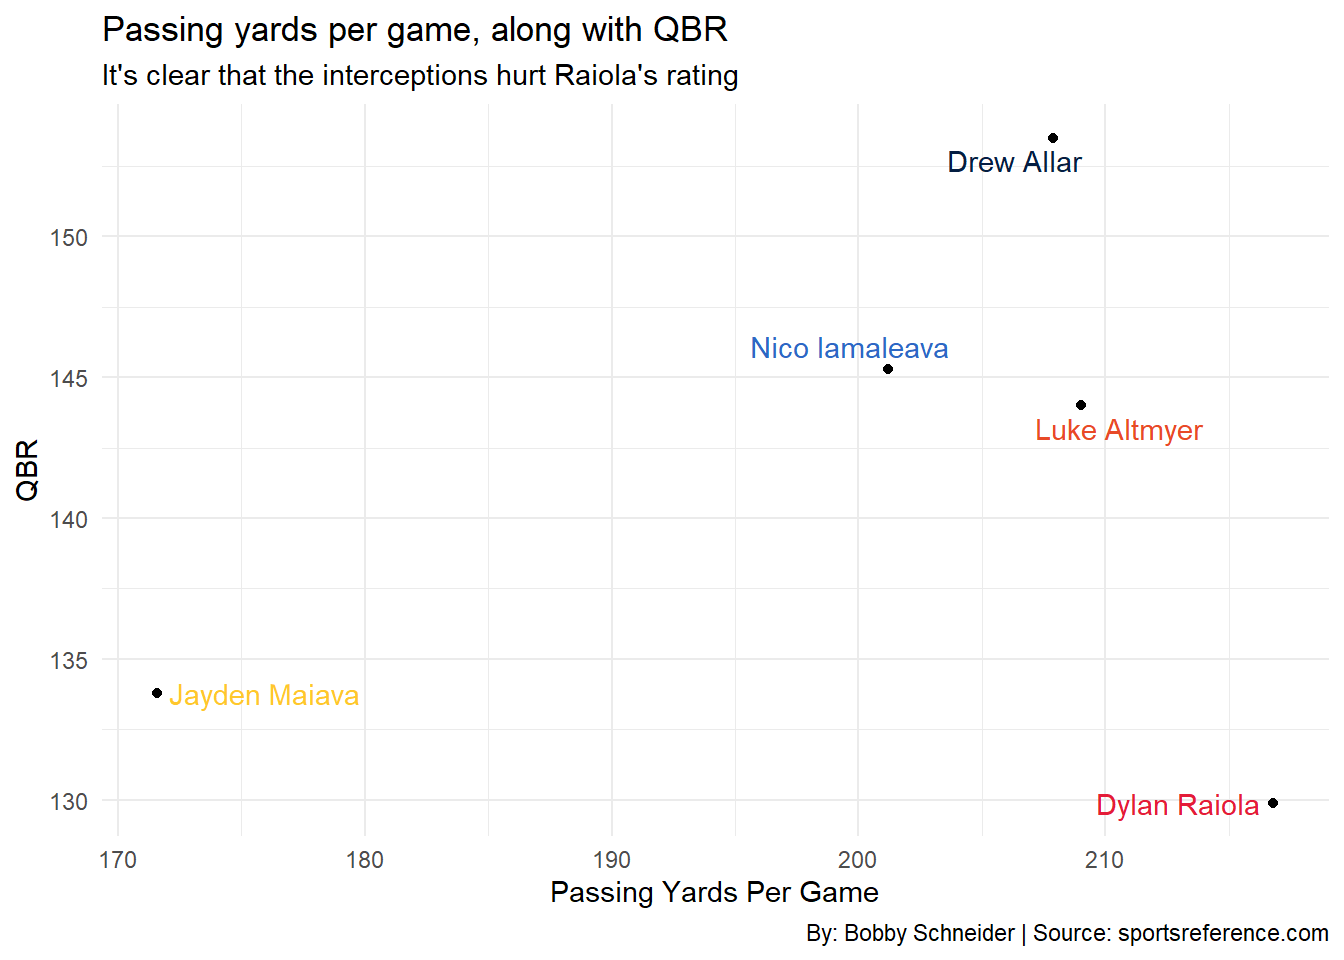
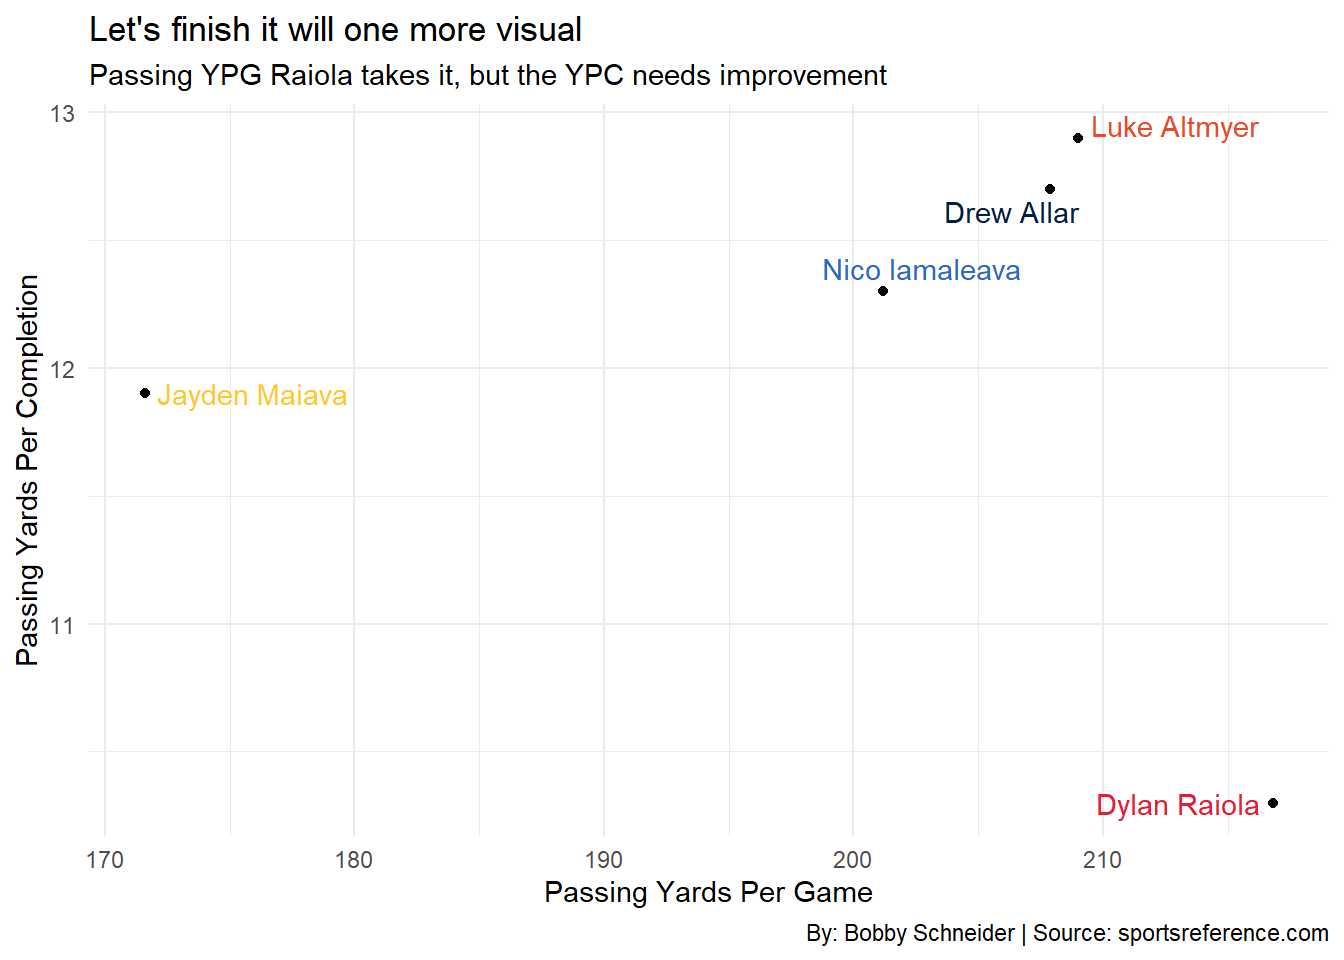
update20

diff --git a/posts/dylan-raiola-compared-to-big-ten-qbs/index.html b/posts/dylan-raiola-compared-to-big-ten-qbs/index.html
@@ -191,9 +191,9 @@ pre > code.sourceCode > span > a:first-child::before { text-decoration: underlin
 
 
 
-<p>Dylan Raiola showed sparks of eliteness as a true freshman in Lincoln, but he also had his fair share of rookie moments. As he enters his sophomore season, the expectations for Nebraska football with him under center continue to grow.</p>
-<p>Could Raiola make the jump to become elite as a Big Ten QB? You’ll find he did pretty solid, especially compared to quarterbacks that had been starters before Raiola even stepped foot on a college campus.</p>
-<p>Below, we will compare Raiola to four quarterbacks who were starters the past season in the Big Ten. The only expectation — former Tennessee, now UCLA quarterback Nico Iamaleava. The others include Penn State’s Drew Allar, Illinois’ Luke Altmyer and USC’s Jayden Maiava.</p>
+<p>Dylan Raiola showed sparks of eliteness as a true freshman in Lincoln, but he also had his fair share of rookie moments. As he enters his sophomore season, the expectations for Nebraska football with him under center continue to grow. Could Raiola make the jump to become elite as a Big Ten quarterback? You’ll find he did pretty solid, especially compared to quarterbacks who had been starters before Raiola even stepped foot on a college campus.</p>
+<p>We will compare Raiola to four quarterbacks who were starters the past season in the Big Ten. The only exception — former Tennessee, now UCLA quarterback Nico Iamaleava. The others include Penn State’s Drew Allar, Illinois’ Luke Altmyer and USC’s Jayden Maiava.</p>
+<p>Starting with raw production in simple terms for a quarterback — passing yards:</p>
 <div class="cell">
 <details class="code-fold">
 <summary>Code</summary>
@@ -217,6 +217,9 @@ pre > code.sourceCode > span > a:first-child::before { text-decoration: underlin
 </div>
 </div>
 </div>
+<p>As seen above, Raiola did pretty solid. He set the Nebraska freshman single-season passing yards record with his 2,819 yards through the air. Remember, he was a freshman. The rest had been a starter for at least one season prior.</p>
+<p>Altmyer, Allar were in their fourth year of college. Iamaleava was in his second season and Maiava had been a starter at UNLV the year prior. Although Raiola threw it the most, it’s stellar that the freshman quarterback achieved that high of a mark.</p>
+<p>What is something that Raiola might be No.1 in? There wasn’t much, yet a very critical statistic he leads the way — and that being:</p>
 <div class="cell">
 <details class="code-fold">
 <summary>Code</summary>
@@ -251,6 +254,9 @@ pre > code.sourceCode > span > a:first-child::before { text-decoration: underlin
 </div>
 </div>
 </div>
+<p>It’s extremely impressive that Raiola had the most passing attempts among these QBs. He obtained the highest completion percentage — savvy for a true freshman in the Big Ten.</p>
+<p>For Raiola to put up that high of completion percentage, with a lackluster receiving corps. The Huskers’ receiving leader was Jahmal Banks, who only racked up 587 yards. It’s impressive how Raiola found as many completions as he did.</p>
+<p>Now, this one gets ugly. The touchdown-to-interception ratio is not ideal for Raiola, especially compared to the other four:</p>
 <div class="cell">
 <details class="code-fold">
 <summary>Code</summary>
@@ -277,17 +283,21 @@ pre > code.sourceCode > span > a:first-child::before { text-decoration: underlin
 </div>
 </div>
 </div>
+<p>Raiola’s ratio is the worst among the group, but it is noteworthy that one came on the last play of the game at USC — on a controversial no-call on a pass interference from the Trojan defense. Two others came from defenders ripping the ball from Nebraska receivers’ hands — one from Jaylen Lloyd against Northern Iowa and the other from Isaiah Neyor against Illinois.</p>
+<p>This still doesn’t give Raiola a free pass on the interceptions. He had his fair share of mishaps through the air. He threw three alone at Indiana and two crucial ones to end the games at Ohio State and Iowa.</p>
+<p>Finally, there’s one more visualization that is intriguing.</p>
+<p>Here is a look at passing yards per game, along with yards per completion:</p>
 <div class="cell">
 <details class="code-fold">
 <summary>Code</summary>
 <div class="sourceCode cell-code" id="cb4"><pre class="sourceCode r code-with-copy"><code class="sourceCode r"><span id="cb4-1"><a href="#cb4-1" aria-hidden="true" tabindex="-1"></a><span class="fu">ggplot</span>() <span class="sc">+</span></span>
 <span id="cb4-2"><a href="#cb4-2" aria-hidden="true" tabindex="-1"></a>  <span class="fu">geom_beeswarm</span>(</span>
 <span id="cb4-3"><a href="#cb4-3" aria-hidden="true" tabindex="-1"></a>    <span class="at">data =</span> Raiola_B1G_QBs, </span>
-<span id="cb4-4"><a href="#cb4-4" aria-hidden="true" tabindex="-1"></a>    <span class="fu">aes</span>(<span class="at">x =</span> Y.G, <span class="at">y =</span> QBR), <span class="at">color =</span> <span class="st">"black"</span></span>
+<span id="cb4-4"><a href="#cb4-4" aria-hidden="true" tabindex="-1"></a>    <span class="fu">aes</span>(<span class="at">x =</span> Y.G, <span class="at">y =</span> Y.C), <span class="at">color =</span> <span class="st">"black"</span></span>
 <span id="cb4-5"><a href="#cb4-5" aria-hidden="true" tabindex="-1"></a>  ) <span class="sc">+</span> </span>
 <span id="cb4-6"><a href="#cb4-6" aria-hidden="true" tabindex="-1"></a>  <span class="fu">geom_text_repel</span>(</span>
 <span id="cb4-7"><a href="#cb4-7" aria-hidden="true" tabindex="-1"></a>    <span class="at">data =</span> Raiola_B1G_QBs, </span>
-<span id="cb4-8"><a href="#cb4-8" aria-hidden="true" tabindex="-1"></a>    <span class="fu">aes</span>(<span class="at">x =</span> Y.G, <span class="at">y =</span> QBR, <span class="at">label =</span> Name, <span class="at">color =</span> Name), </span>
+<span id="cb4-8"><a href="#cb4-8" aria-hidden="true" tabindex="-1"></a>    <span class="fu">aes</span>(<span class="at">x =</span> Y.G, <span class="at">y =</span> Y.C, <span class="at">label =</span> Name, <span class="at">color =</span> Name), </span>
 <span id="cb4-9"><a href="#cb4-9" aria-hidden="true" tabindex="-1"></a>    <span class="at">show.legend =</span> <span class="cn">FALSE</span></span>
 <span id="cb4-10"><a href="#cb4-10" aria-hidden="true" tabindex="-1"></a>  ) <span class="sc">+</span> </span>
 <span id="cb4-11"><a href="#cb4-11" aria-hidden="true" tabindex="-1"></a>  <span class="fu">scale_color_manual</span>(</span>
@@ -301,9 +311,9 @@ pre > code.sourceCode > span > a:first-child::before { text-decoration: underlin
 <span id="cb4-19"><a href="#cb4-19" aria-hidden="true" tabindex="-1"></a>  ) <span class="sc">+</span></span>
 <span id="cb4-20"><a href="#cb4-20" aria-hidden="true" tabindex="-1"></a>  <span class="fu">labs</span>(</span>
 <span id="cb4-21"><a href="#cb4-21" aria-hidden="true" tabindex="-1"></a>    <span class="at">x =</span> <span class="st">"Passing Yards Per Game"</span>, </span>
-<span id="cb4-22"><a href="#cb4-22" aria-hidden="true" tabindex="-1"></a>    <span class="at">y =</span> <span class="st">"QBR"</span>,</span>
-<span id="cb4-23"><a href="#cb4-23" aria-hidden="true" tabindex="-1"></a>    <span class="at">title =</span> <span class="st">"Passing yards per game, along with QBR"</span>, </span>
-<span id="cb4-24"><a href="#cb4-24" aria-hidden="true" tabindex="-1"></a>    <span class="at">subtitle =</span> <span class="st">"It's clear that the interceptions hurt Raiola's rating"</span>,</span>
+<span id="cb4-22"><a href="#cb4-22" aria-hidden="true" tabindex="-1"></a>    <span class="at">y =</span> <span class="st">"Passing Yards Per Completion"</span>,</span>
+<span id="cb4-23"><a href="#cb4-23" aria-hidden="true" tabindex="-1"></a>    <span class="at">title =</span> <span class="st">"Let's finish it will one more visual"</span>, </span>
+<span id="cb4-24"><a href="#cb4-24" aria-hidden="true" tabindex="-1"></a>    <span class="at">subtitle =</span> <span class="st">"Passing YPG Raiola takes it, but the YPC needs improvement"</span>,</span>
 <span id="cb4-25"><a href="#cb4-25" aria-hidden="true" tabindex="-1"></a>    <span class="at">caption =</span> <span class="st">"By: Bobby Schneider | Source: sportsreference.com"</span></span>
 <span id="cb4-26"><a href="#cb4-26" aria-hidden="true" tabindex="-1"></a>  ) <span class="sc">+</span></span>
 <span id="cb4-27"><a href="#cb4-27" aria-hidden="true" tabindex="-1"></a>  <span class="fu">theme_minimal</span>()</span></code><button title="Copy to Clipboard" class="code-copy-button"><i class="bi"></i></button></pre></div>
@@ -316,6 +326,10 @@ pre > code.sourceCode > span > a:first-child::before { text-decoration: underlin
 </div>
 </div>
 </div>
+<p>Raiola’s passing yards per game came in first, but his yards per completion came in dead last. It doesn’t help that former Nebraska offensive coordinator Marcus Satterfield had Raiola throwing a significant amount of bubble screens until Dana Holgorsen took over after the Huskers lost to UCLA.</p>
+<p>That might be an excuse for Raiola, but his deep ball talents didn’t necessarily translate throughout the season. Was it the lack of talent in the Nebraska receiving room? That question will be answered come fall. Raiola has quite the talent in his receivers heading into the season. Kentucky transfer Dane Key, Cal transfer Nyziah Hunter and Jacory Barney Jr.&nbsp;look to lead the way.</p>
+<p>The talent is there for Raiola to put up video game numbers in 2025, but it’s clear that there’s strong room for improvement in some categories. At the same time, Raiola was savvy as a freshman. He beat out the top Big Ten quarterbacks in important categories with significant starting experience — and all had at least one year of college football under their belt before Raiola.</p>
+<p>Only time will tell, but Raiola could have quite the season for the Big Red.</p>
 
 
 

diff --git a/index.html b/index.html
@@ -205,7 +205,7 @@ window.Quarto = {
 
 <div class="quarto-listing quarto-listing-container-default" id="listing-listing">
 <div class="list quarto-listing-default">
[2 lines of base64/hex data omitted]
 <div class="thumbnail">
 <p><a href="./posts/dylan-raiola-compared-to-big-ten-qbs/index.html" class="no-external"></a></p><a href="./posts/dylan-raiola-compared-to-big-ten-qbs/index.html" class="no-external">
 <p><img loading="lazy" src="./posts/dylan-raiola-compared-to-big-ten-qbs/Raiola_Graphic.png" class="thumbnail-image"></p>
